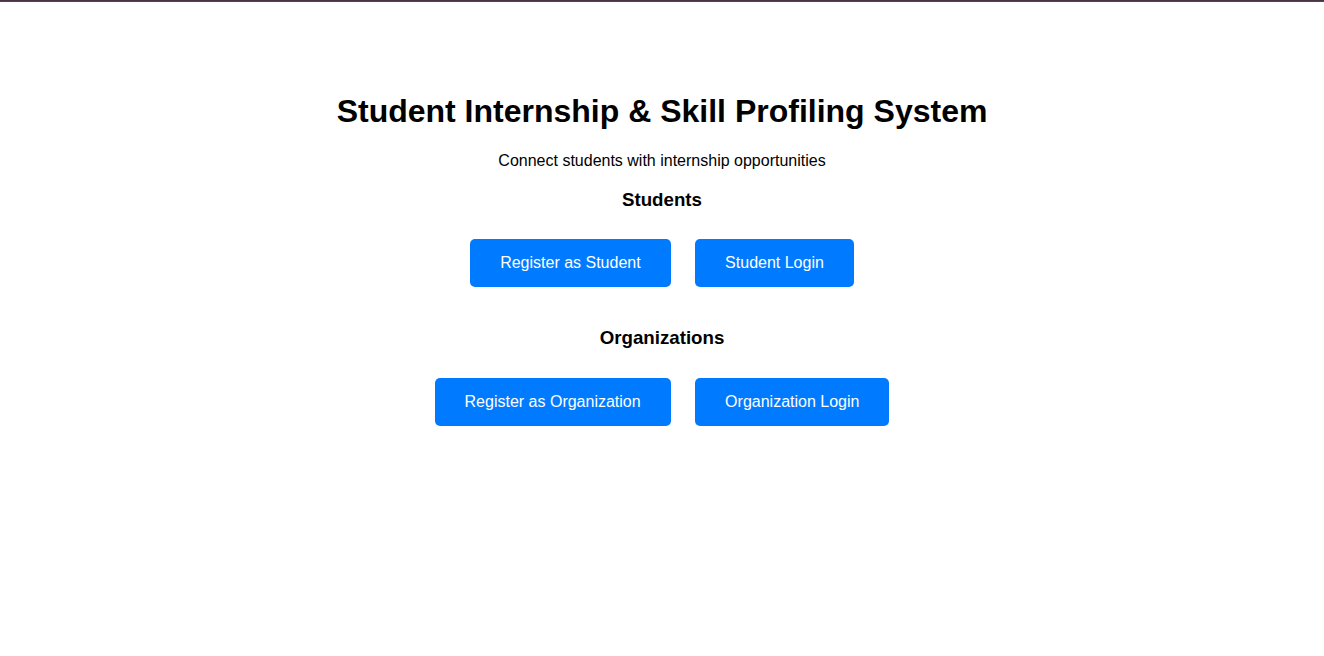
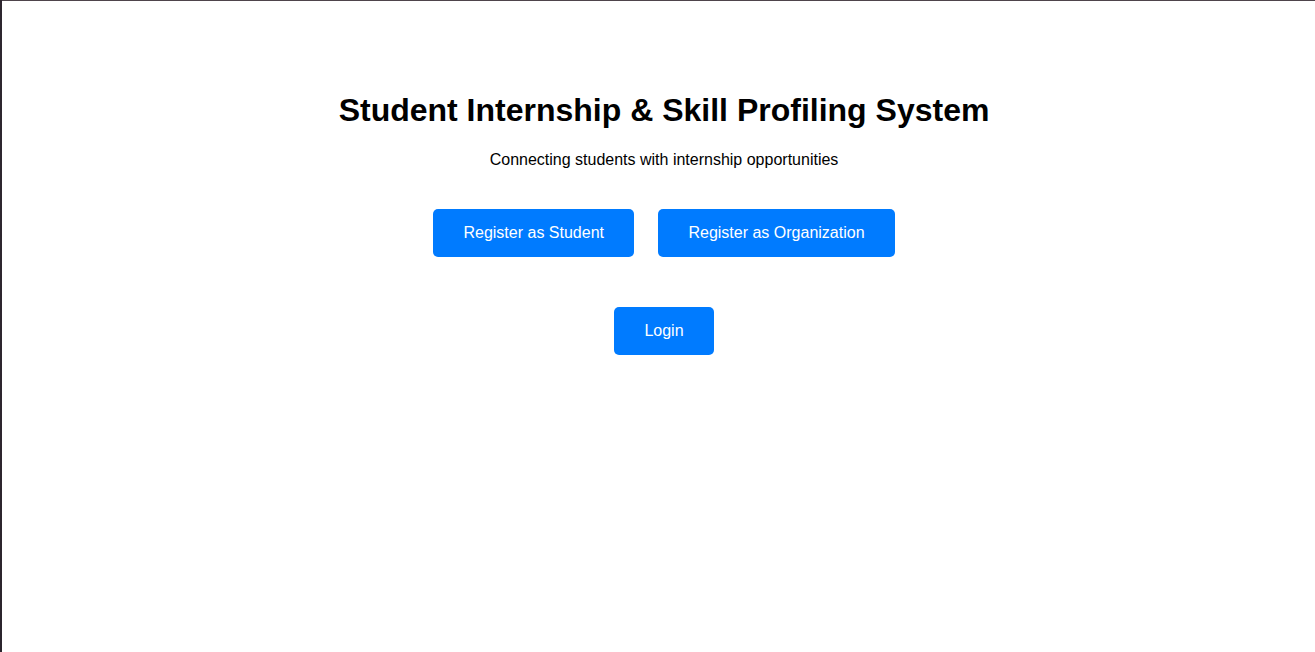
update: homepage UI and readme

Changed region(s): [[0.2494, 0.1534, 0.7483, 0.6748]]

diff --git a/student-internship-system/README.md b/student-internship-system/README.md
@@ -2,7 +2,7 @@
 
 A full-stack web application connecting students with internship opportunities. Built with Node.js, Express, PostgreSQL, and EJS.
 
-🔗 **Live Demo:** https://internship-system-j3su.onrender.com/student/dashboard
+🔗 **Live Demo:** https://internship-system-j3su.onrender.com
 
 ![App Homepage](images/homepage.png)
 